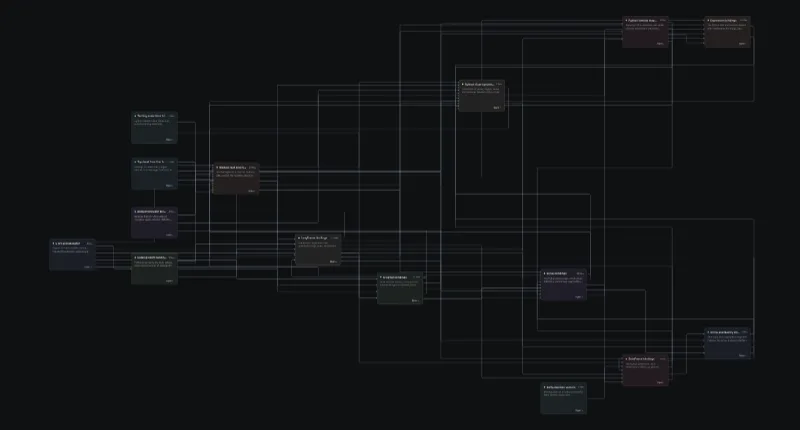
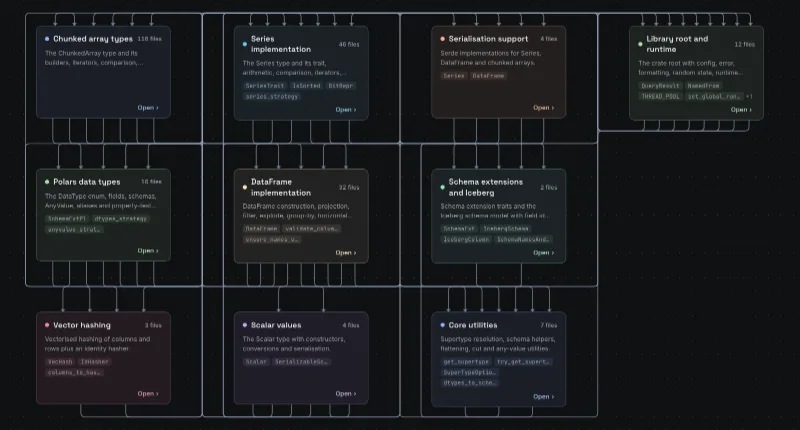
review: redraw cards with the new level layout, pick readable card levels (0C/2W/3S)
- W1: merged main (#97 level layout) and redrew all 12 cards from the
  snapshots in ~/.cache/ropeman-explore. thumbs.mjs now caps relations
  at two per part and shrinks the score past ten parts, so tokio shows
  tokio/src/runtime and polars shows crates/polars-core/src instead of
  the densest level; the other ten cards keep their level.
- W2: PR body states the order (upload batch 2, then merge) and what a
  merge before the upload shows.
- S3: tokio's Korean description says the runtime provides I/O,
  networking, scheduling and timers.
- S4: every repos.json entry must have an integer batch.
- S5: ARCH names what the cleanup PR removes after both uploads.

- 리뷰 보고서: .spec/reviews/2026-11-13-01-review.md

diff --git a/src/lib/services/exploreService.test.ts b/src/lib/services/exploreService.test.ts
@@ -521,6 +521,10 @@ describe('getCuratedManifest', () => {
 		}
 		const live = Object.keys(repos).filter((slug) => liveBatches.includes(repos[slug].batch));
 		expect(entries.map((e) => e.slug).sort()).toEqual(live.sort());
+		// A missing or quoted batch would drop a repository from both lists without a failure
+		for (const [slug, entry] of Object.entries(repos)) {
+			expect(Number.isInteger(entry.batch), slug).toBe(true);
+		}
 	});
 
 	it('slugs are unique', () => {
